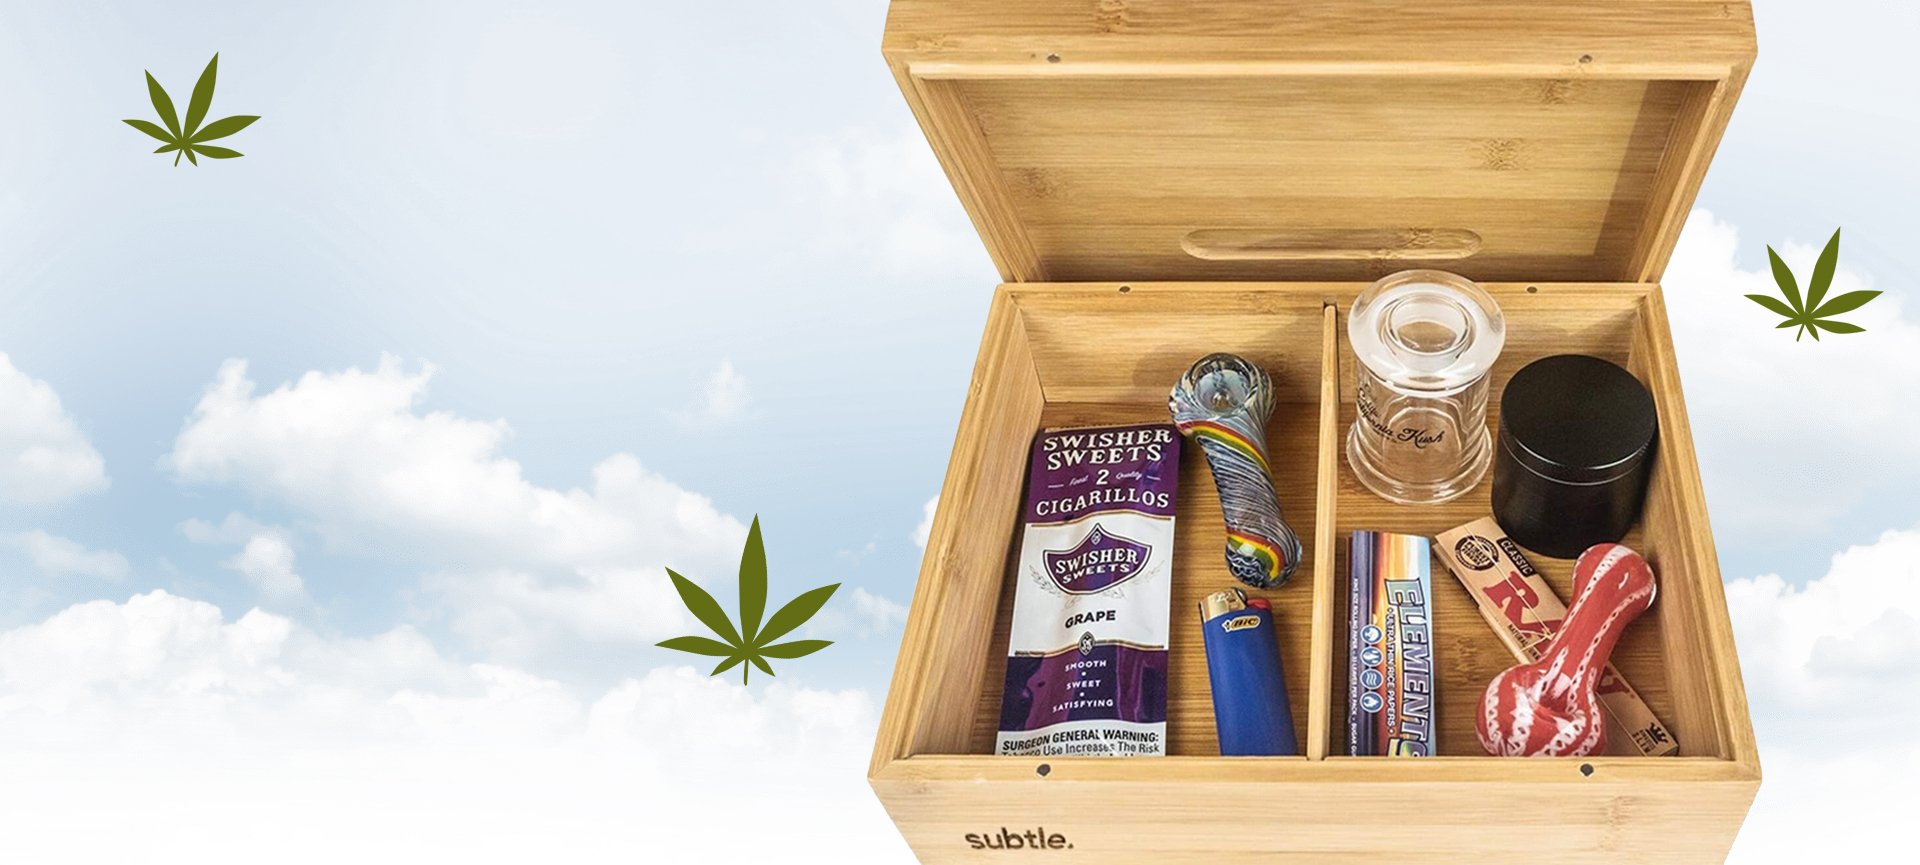
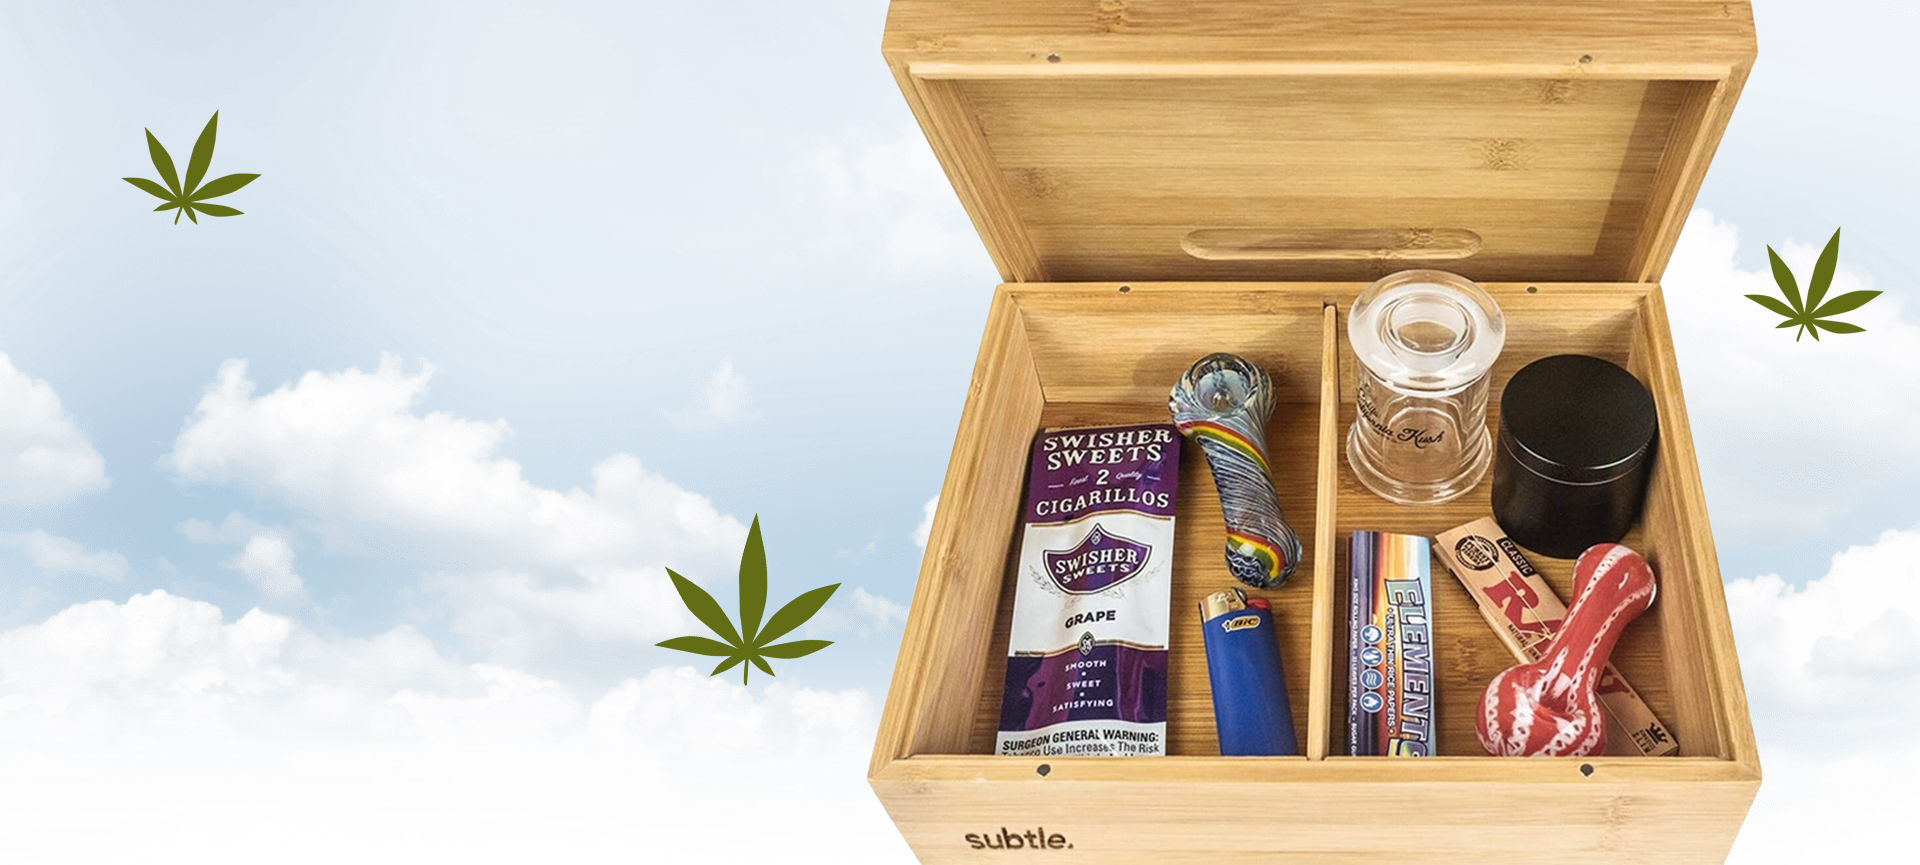
s

Changed region(s): [[0.0625, 0.0624, 0.1562, 0.2497]]

diff --git a/index.html b/index.html
@@ -407,7 +407,7 @@
 
                                                 <div class="et_pb_text_inner"><div class="feature_slider" id="feature_slider">
                                                     <div class="owl-carousel owl-theme"><div class="owl-slider item">
-                                                        <div class="feature-slider " style="background-image: url('https://www.herbalist.ml/img/the-herbalist-stoner-box.jpg?v4');">
+                                                        <div class="feature-slider " style="background-image: url('https://www.herbalist.ml/img/the-herbalist-stoner-box.jpg?v5');">
                                                             <div class="slider-content et_pb_row">
 
                                                                 <h2 class="custom-slider-text">The Herbalist Box™ <br> for just $49.99</h2>
